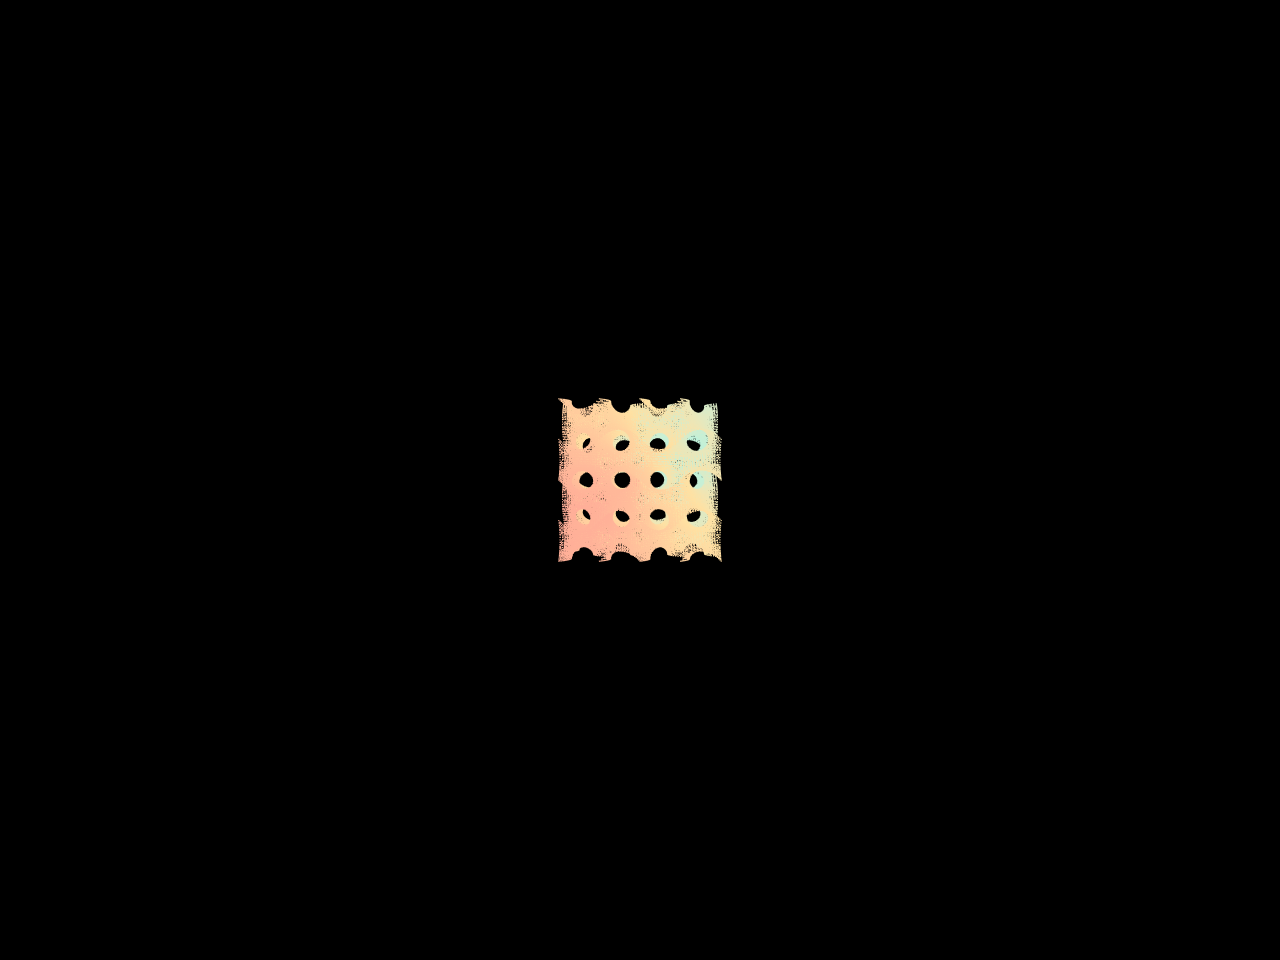
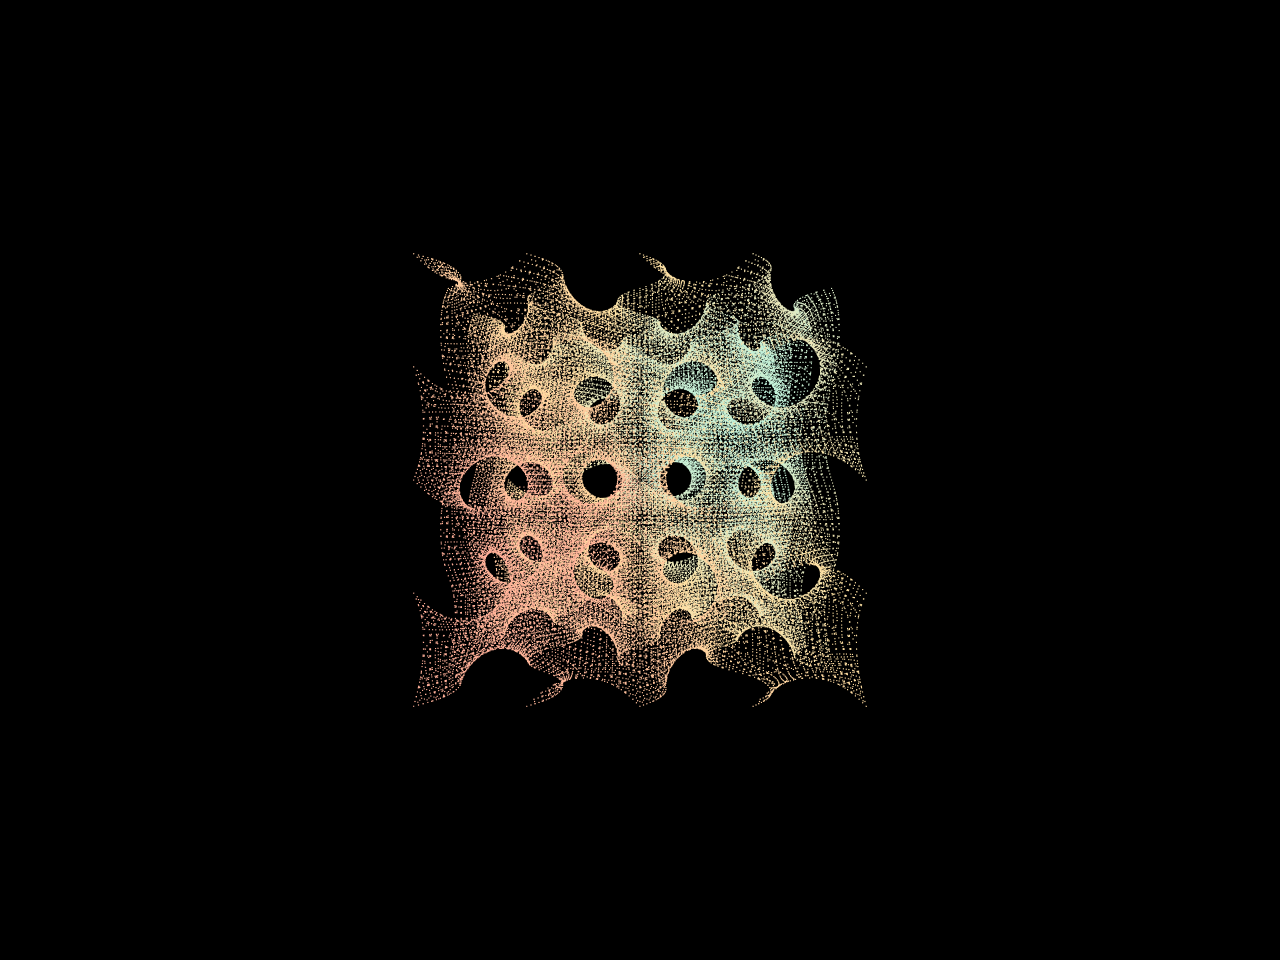
Frame default tiles=2 for gyroid and Schwarz P.

Changed region(s): [[0.3125, 0.25, 0.6875, 0.75], [0.3125, 0.25, 0.3438, 0.2812]]

diff --git a/packages/frontend/src/utils/gyroid.ts b/packages/frontend/src/utils/gyroid.ts
@@ -35,11 +35,11 @@ function centerAndScaleTiles(
 	if (count === 0) {
 		return
 	}
-	/** Fixed scale from max tiles so one cell keeps a constant size (fit-to-frame made 2 look denser than 4). */
-	const maxTiles = 4
+	/** Scale so default tiles=2 fills the frame; more tiles grow the object (constant cell size). */
+	const refTiles = 2
 	const extent = PERIOD * nTiles
 	const half = extent / 2
-	const s = targetRadius / (PERIOD * maxTiles)
+	const s = targetRadius / (PERIOD * refTiles)
 	for (let i = 0; i < count; i++) {
 		const i3 = i * 3
 		positions[i3] = (positions[i3] - half) * s

diff --git a/packages/frontend/src/utils/schwarzP.ts b/packages/frontend/src/utils/schwarzP.ts
@@ -35,11 +35,11 @@ function centerAndScaleTiles(
 	if (count === 0) {
 		return
 	}
-	/** Fixed scale from max tiles so one cell keeps a constant size (fit-to-frame made 2 look denser than 4). */
-	const maxTiles = 4
+	/** Scale so default tiles=2 fills the frame; more tiles grow the object (constant cell size). */
+	const refTiles = 2
 	const extent = PERIOD * nTiles
 	const half = extent / 2
-	const s = targetRadius / (PERIOD * maxTiles)
+	const s = targetRadius / (PERIOD * refTiles)
 	for (let i = 0; i < count; i++) {
 		const i3 = i * 3
 		positions[i3] = (positions[i3] - half) * s

diff --git a/packages/frontend/src/pages/misc/schwarz_p.tsx b/packages/frontend/src/pages/misc/schwarz_p.tsx
@@ -75,7 +75,7 @@ const SchwarzP = () => {
 			numParticles={SCHWARZ_MAX_POINTS}
 			pointSize={1.15}
 			tick={tick}
-			cameraPosition={[0, 0, 3.7]}
+			cameraPosition={[0, 0, 3.2]}
 			autoRotate={!isScreenshotMode()}
 			autoRotateSpeed={0.28}
 		/>

diff --git a/packages/frontend/src/pages/misc/gyroid.tsx b/packages/frontend/src/pages/misc/gyroid.tsx
@@ -75,7 +75,7 @@ const Gyroid = () => {
 			numParticles={GYROID_MAX_POINTS}
 			pointSize={1.15}
 			tick={tick}
-			cameraPosition={[0, 0, 3.7]}
+			cameraPosition={[0, 0, 3.2]}
 			autoRotate={!isScreenshotMode()}
 			autoRotateSpeed={0.28}
 		/>
